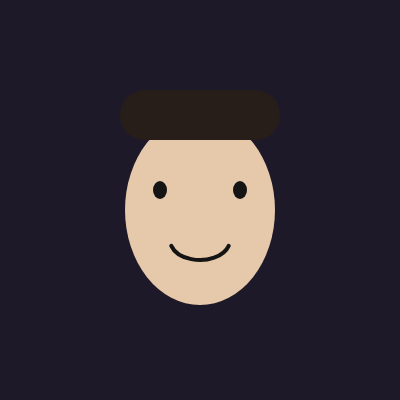
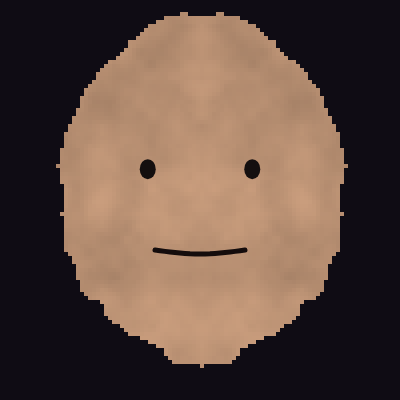
feat(sketch): day13, day19

diff --git a/19-veille-et-culture-numerique/sketches/day19.js b/19-veille-et-culture-numerique/sketches/day19.js
@@ -1,14 +1,61 @@
 // genuary prompt 19: 16x16
 window.sketches[19] = (p) => {
-  // strict 16x16 grid of colored cells
-  p.setup = () => { p.createCanvas(400, 400); p.noLoop(); p.noiseSeed(19); };
+  // hand drawn 16x16 sprite, 0 = empty, 1/2/3 = colors
+  const ghostA = [
+    [0,0,0,1,1,1,1,1,1,1,1,0,0,0,0,0],
+    [0,0,1,1,1,1,1,1,1,1,1,1,0,0,0,0],
+    [0,1,1,1,1,1,1,1,1,1,1,1,1,0,0,0],
+    [0,1,1,2,2,1,1,1,1,2,2,1,1,0,0,0],
+    [1,1,1,2,3,2,1,1,2,3,2,1,1,1,0,0],
+    [1,1,1,2,2,2,1,1,2,2,2,1,1,1,0,0],
+    [1,1,1,1,1,1,1,1,1,1,1,1,1,1,0,0],
+    [1,1,1,1,1,1,1,1,1,1,1,1,1,1,0,0],
+    [1,1,1,1,1,1,1,1,1,1,1,1,1,1,0,0],
+    [1,1,1,1,1,1,1,1,1,1,1,1,1,1,0,0],
+    [1,1,1,1,1,1,1,1,1,1,1,1,1,1,0,0],
+    [1,1,1,1,1,1,1,1,1,1,1,1,1,1,0,0],
+    [1,1,1,1,1,1,1,1,1,1,1,1,1,1,0,0],
+    [1,1,0,1,1,0,1,1,0,1,1,0,1,1,0,0],
+    [1,0,0,0,1,0,0,0,1,0,0,0,1,0,0,0],
+    [0,0,0,0,0,0,0,0,0,0,0,0,0,0,0,0],
+  ];
+  // same sprite, eyes closed, slightly shifted down for the blink
+  const ghostB = [
+    [0,0,0,0,1,1,1,1,1,1,1,1,0,0,0,0],
+    [0,0,1,1,1,1,1,1,1,1,1,1,1,0,0,0],
+    [0,1,1,1,1,1,1,1,1,1,1,1,1,1,0,0],
+    [1,1,1,1,1,1,1,1,1,1,1,1,1,1,0,0],
+    [1,1,1,2,2,1,1,1,1,2,2,1,1,1,0,0],
+    [1,1,1,1,1,1,1,1,1,1,1,1,1,1,0,0],
+    [1,1,1,1,1,1,1,1,1,1,1,1,1,1,0,0],
+    [1,1,1,1,1,1,1,1,1,1,1,1,1,1,0,0],
+    [1,1,1,1,1,1,1,1,1,1,1,1,1,1,0,0],
+    [1,1,1,1,1,1,1,1,1,1,1,1,1,1,0,0],
+    [1,1,1,1,1,1,1,1,1,1,1,1,1,1,0,0],
+    [1,1,1,1,1,1,1,1,1,1,1,1,1,1,0,0],
+    [1,1,1,1,1,1,1,1,1,1,1,1,1,1,0,0],
+    [0,1,1,0,1,1,0,1,1,0,1,1,0,1,0,0],
+    [0,0,0,0,0,0,0,0,0,0,0,0,0,0,0,0],
+    [0,0,0,0,0,0,0,0,0,0,0,0,0,0,0,0],
+  ];
+  const colors = {
+    1: [235, 235, 245],
+    2: [40, 40, 60],
+    3: [255, 255, 255],
+  };
+  p.setup = () => { p.createCanvas(400, 400); p.frameRate(4); };
   p.draw = () => {
+    p.background(20, 25, 45);
     const n = 16, cell = 400 / n;
+    // blink every second, most frames show the open eyes frame
+    const frame = p.frameCount % 12 < 10 ? ghostA : ghostB;
     p.noStroke();
     for (let i = 0; i < n; i++) {
       for (let j = 0; j < n; j++) {
-        const v = p.noise(i * 0.4, j * 0.4);
-        p.fill(v * 255, (1 - v) * 200, 150);
+        const v = frame[j][i];
+        if (v === 0) continue;
+        const c = colors[v];
+        p.fill(c[0], c[1], c[2]);
         p.rect(i * cell, j * cell, cell, cell);
       }
     }

diff --git a/19-veille-et-culture-numerique/sketches/day13.js b/19-veille-et-culture-numerique/sketches/day13.js
@@ -1,18 +1,43 @@
 // genuary prompt 13: self portrait
 window.sketches[13] = (p) => {
-  // abstract self portrait, circles and lines, not literal
-  p.setup = () => { p.createCanvas(400, 400); p.noLoop(); };
+  // generative face, mirrored perlin noise left/right like a rorschach test
+  let t = 0;
+  p.setup = () => { p.createCanvas(400, 400); p.noiseSeed(13); };
   p.draw = () => {
-    p.background(30, 25, 40);
+    p.background(15, 12, 20);
     p.noStroke();
-    p.fill(230, 200, 170);
-    p.ellipse(200, 210, 150, 190); // face
-    p.fill(20);
-    p.ellipse(160, 190, 14, 18);
-    p.ellipse(240, 190, 14, 18); // eyes
-    p.stroke(20); p.strokeWeight(4); p.noFill();
-    p.arc(200, 240, 60, 40, 0.2, p.PI - 0.2); // mouth
-    p.noStroke(); p.fill(40, 30, 25);
-    p.rect(120, 90, 160, 50, 30); // hair block, very simplified
+    const cx = 200, cy = 190;
+    // skin field, only draw right half of noise then mirror to the left
+    const rx = 140, ry = 175;
+    for (let x = 0; x <= 200; x += 4) {
+      for (let y = 0; y <= 400; y += 4) {
+        const n = p.noise(x * 0.02, y * 0.02, t);
+        // distance to an oval, wobbled a bit by noise so the edge is not perfect
+        const ed = Math.sqrt(Math.pow(x / rx, 2) + Math.pow((y - cy) / ry, 2));
+        if (ed + (n - 0.5) * 0.3 > 1) continue; // keeps a rough oval outline
+        const shade = 150 + n * 70;
+        p.fill(shade, shade * 0.78, shade * 0.62);
+        p.rect(cx + x, y, 4, 4);
+        p.rect(cx - x, y, 4, 4);
+      }
+    }
+    // eyes drift slowly with noise, stay mirrored
+    const eyeOffX = (p.noise(50, t) - 0.5) * 16;
+    const eyeOffY = (p.noise(80, t) - 0.5) * 10;
+    p.fill(20, 15, 15);
+    p.ellipse(cx - 55 + eyeOffX, 170 + eyeOffY, 16, 20);
+    p.ellipse(cx + 55 - eyeOffX, 170 + eyeOffY, 16, 20);
+    // mouth curve moves with a slower noise cycle
+    const mouthCurve = (p.noise(120, t) - 0.5) * 30;
+    p.noFill();
+    p.stroke(20, 12, 12);
+    p.strokeWeight(5);
+    p.beginShape();
+    for (let x = -45; x <= 45; x += 5) {
+      const y = 250 + mouthCurve * Math.sin((x + 45) / 90 * Math.PI);
+      p.vertex(cx + x, y);
+    }
+    p.endShape();
+    t += 0.004;
   };
 };
